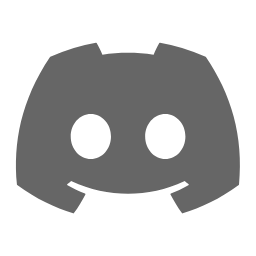
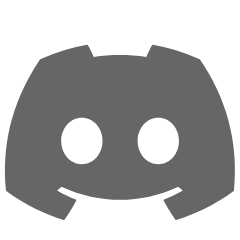
minor adjustments to spacing

Changed region(s): [[0.0, 0.1458, 0.9917, 0.9333]]

diff --git a/client/public/email-signature.html b/client/public/email-signature.html
@@ -69,78 +69,129 @@
                 color: #1a1a1a;
               "
             >
-              info@waterlooquantclub.com
+              name@waterlooquantclub.com
             </td>
           </tr>
           <tr>
-            <td style="padding-top: 18px">
-              <a
-                href="https://www.instagram.com/wlooquantclub/"
-                target="_blank"
-                style="text-decoration: none"
-                ><img
-                  src="https://waterlooquantclub.com/email-signature/instagram.png"
-                  alt="Instagram"
-                  width="20"
-                  height="20"
-                  style="
-                    width: 20px;
-                    height: 20px;
-                    margin-right: 8px;
-                    border: 0;
-                    display: inline-block;
-                  "
-              /></a>
-              <a
-                href="https://www.linkedin.com/company/waterloo-quant-club"
-                target="_blank"
-                style="text-decoration: none"
-                ><img
-                  src="https://waterlooquantclub.com/email-signature/linkedin.png"
-                  alt="LinkedIn"
-                  width="20"
-                  height="20"
-                  style="
-                    width: 20px;
-                    height: 20px;
-                    margin-right: 8px;
-                    border: 0;
-                    display: inline-block;
-                  "
-              /></a>
-              <a
-                href="https://discord.gg/Hu3FxfHnZt"
-                target="_blank"
-                style="text-decoration: none"
-                ><img
-                  src="https://waterlooquantclub.com/email-signature/discord.png"
-                  alt="Discord"
-                  width="20"
-                  height="20"
-                  style="
-                    width: 20px;
-                    height: 20px;
-                    margin-right: 8px;
-                    border: 0;
-                    display: inline-block;
-                  "
-              /></a>
-              <a
-                href="mailto:name@waterlooquantclub.com"
-                style="text-decoration: none"
-                ><img
-                  src="https://waterlooquantclub.com/email-signature/email.png"
-                  alt="Email"
-                  width="20"
-                  height="20"
-                  style="
-                    width: 20px;
-                    height: 20px;
-                    margin-right: 8px;
-                    border: 0;
-                    display: inline-block;
-                  "
-              /></a>
+            <td style="padding-top: 8px">
+              <table
+                cellpadding="0"
+                cellspacing="0px"
+                border="0"
+                style="border: 0"
+              >
+                <tbody>
+                  <tr>
+                    <td
+                      valign="bottom"
+                      style="padding: 0 16px 0 0; line-height: 0; font-size: 0"
+                    >
+                      <a
+                        href="https://www.instagram.com/wlooquantclub/"
+                        target="_blank"
+                        style="
+                          display: block;
+                          text-decoration: none;
+                          line-height: 0;
+                          font-size: 0;
+                        "
+                        ><img
+                          src="https://waterlooquantclub.com/email-signature/instagram.png"
+                          alt="Instagram"
+                          width="20"
+                          height="20"
+                          style="
+                            width: 20px;
+                            height: 20px;
+                            border: 0;
+                            display: block;
+                          "
+                      /></a>
+                    </td>
+                    <td
+                      valign="bottom"
+                      style="
+                        padding: 0 16px 2px 0;
+                        line-height: 0;
+                        font-size: 0;
+                      "
+                    >
+                      <a
+                        href="https://www.linkedin.com/company/waterloo-quant-club"
+                        target="_blank"
+                        style="
+                          display: block;
+                          text-decoration: none;
+                          line-height: 0;
+                          font-size: 0;
+                        "
+                        ><img
+                          src="https://waterlooquantclub.com/email-signature/linkedin.png"
+                          alt="LinkedIn"
+                          width="20"
+                          height="20"
+                          style="
+                            width: 20px;
+                            height: 20px;
+                            border: 0;
+                            display: block;
+                          "
+                      /></a>
+                    </td>
+                    <td
+                      valign="bottom"
+                      style="padding: 0 16px 0 0; line-height: 0; font-size: 0"
+                    >
+                      <a
+                        href="https://discord.gg/Hu3FxfHnZt"
+                        target="_blank"
+                        style="
+                          display: block;
+                          text-decoration: none;
+                          line-height: 0;
+                          font-size: 0;
+                        "
+                        ><img
+                          src="https://waterlooquantclub.com/email-signature/discord.png"
+                          alt="Discord"
+                          width="20"
+                          height="20"
+                          style="
+                            width: 20px;
+                            height: 20px;
+                            border: 0;
+                            display: block;
+                          "
+                      /></a>
+                    </td>
+                    <td
+                      valign="bottom"
+                      style="padding: 0 0 1px 0; line-height: 0; font-size: 0"
+                    >
+                      <a
+                        href="mailto:info@waterlooquantclub.com"
+                        style="
+                          display: block;
+                          text-decoration: none;
+                          line-height: 0;
+                          font-size: 0;
+                        "
+                        ><img
+                          src="https://waterlooquantclub.com/email-signature/email.png"
+                          alt="Email"
+                          width="18"
+                          height="18"
+                          style="
+                            width: 18px;
+                            height: 18px;
+                            border: 0;
+                            display: block;
+                          "
+                      /></a>
+                    </td>
+                  </tr>
+                </tbody>
+              </table>
             </td>
           </tr>
           <tr>
@@ -181,7 +232,7 @@
                           font-family:
                             Merriweather, Georgia, &quot;Times New Roman&quot;,
                             serif;
-                          font-size: 22px;
+                          font-size: 24px;
                           line-height: 22px;
                           font-weight: 500;
                           letter-spacing: 0.2px;
